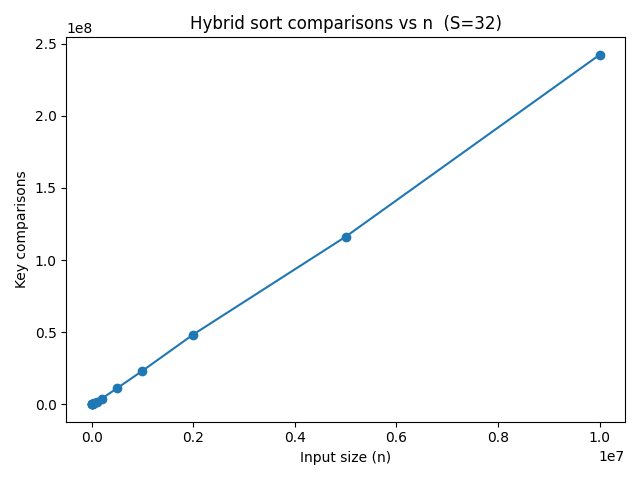
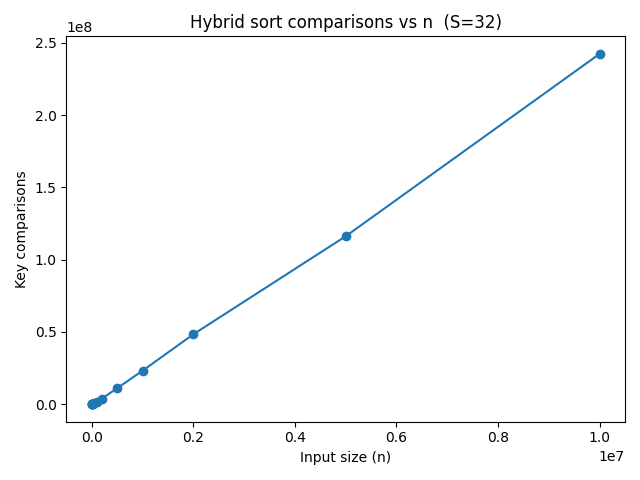
added plot and cpp version

diff --git a/project1/cpp/main.cpp b/project1/cpp/main.cpp
@@ -1,0 +1,116 @@
+#include <iostream>
+#include <fstream>
+#include <vector>
+#include <random>
+#include <chrono>
+#include "algorithms.h"
+
+// ── Data generation ───────────────────────────────────────────────────────────
+
+std::vector<int> generate_array(int n, int x = 10'000'000) {
+    std::mt19937 rng(std::random_device{}());
+    std::uniform_int_distribution<int> dist(1, x);
+    std::vector<int> arr(n);
+    for (auto& v : arr) v = dist(rng);
+    return arr;
+}
+
+// ── Experiment (c-i): fixed S, vary n ────────────────────────────────────────
+
+void experiment_vary_n(int S) {
+    std::vector<int> sizes = {1'000, 2'000, 5'000, 10'000, 20'000, 50'000,
+                               100'000, 200'000, 500'000, 1'000'000,
+                               2'000'000, 5'000'000, 10'000'000};
+
+    std::ofstream csv("results_vary_n.csv");
+    csv << "n,comparisons\n";
+
+    std::cout << "\n=== (c-i) Fixed S=" << S << ", vary n ===\n";
+    for (int n : sizes) {
+        auto arr = generate_array(n);
+        long long comps = hybrid_sort(arr, 0, n - 1, S);
+        std::cout << "  n=" << n << "  comparisons=" << comps << "\n";
+        csv << n << "," << comps << "\n";
+    }
+}
+
+// ── Experiment (c-ii): fixed n, vary S ───────────────────────────────────────
+
+void experiment_vary_S(int n) {
+    auto arr_original = generate_array(n);
+
+    std::ofstream csv("results_vary_S.csv");
+    csv << "S,comparisons\n";
+
+    std::cout << "\n=== (c-ii) Fixed n=" << n << ", vary S ===\n";
+    for (int S = 1; S <= 100; S++) {
+        auto arr = arr_original;
+        long long comps = hybrid_sort(arr, 0, n - 1, S);
+        std::cout << "  S=" << S << "  comparisons=" << comps << "\n";
+        csv << S << "," << comps << "\n";
+    }
+}
+
+// ── Experiment (c-iii): find optimal S ───────────────────────────────────────
+
+void experiment_optimal_S() {
+    std::vector<int> sizes = {1'000, 5'000, 10'000, 50'000, 100'000};
+
+    std::ofstream csv("results_optimal_S.csv");
+    csv << "n,optimal_S,comparisons\n";
+
+    std::cout << "\n=== (c-iii) Optimal S per size ===\n";
+    for (int n : sizes) {
+        auto arr_original = generate_array(n);
+        int best_S = 1;
+        long long best_comps = LLONG_MAX;
+        for (int S = 1; S <= 100; S++) {
+            auto arr = arr_original;
+            long long comps = hybrid_sort(arr, 0, n - 1, S);
+            if (comps < best_comps) {
+                best_comps = comps;
+                best_S = S;
+            }
+        }
+        std::cout << "  n=" << n << "  optimal S=" << best_S
+                  << "  comparisons=" << best_comps << "\n";
+        csv << n << "," << best_S << "," << best_comps << "\n";
+    }
+}
+
+// ── Experiment (d): hybrid vs merge_sort on 10M ──────────────────────────────
+
+void experiment_compare(int S, int n = 10'000'000) {
+    auto arr = generate_array(n);
+
+    auto arr1 = arr;
+    auto t0 = std::chrono::high_resolution_clock::now();
+    long long comps_hybrid = hybrid_sort(arr1, 0, n - 1, S);
+    auto t1 = std::chrono::high_resolution_clock::now();
+
+    auto arr2 = arr;
+    auto t2 = std::chrono::high_resolution_clock::now();
+    long long comps_merge = merge_sort(arr2, 0, n - 1);
+    auto t3 = std::chrono::high_resolution_clock::now();
+
+    double time_hybrid = std::chrono::duration<double>(t1 - t0).count();
+    double time_merge  = std::chrono::duration<double>(t3 - t2).count();
+
+    std::cout << "\n=== (d) Hybrid vs Mergesort on n=" << n << ", S=" << S << " ===\n";
+    std::cout << "  hybrid_sort : " << comps_hybrid << " comparisons | " << time_hybrid << "s\n";
+    std::cout << "  merge_sort  : " << comps_merge  << " comparisons | " << time_merge  << "s\n";
+}
+
+// ── Main ──────────────────────────────────────────────────────────────────────
+
+int main() {
+    const int S_FIXED = 32;
+    const int N_FIXED = 100'000;
+
+    experiment_vary_n(S_FIXED);
+    experiment_vary_S(N_FIXED);
+    experiment_optimal_S();
+    experiment_compare(S_FIXED);
+
+    return 0;
+}

diff --git a/project1/cpp/algorithms.cpp b/project1/cpp/algorithms.cpp
@@ -1,0 +1,66 @@
+#include "algorithms.h"
+#include <vector>
+
+long long insertion_sort(std::vector<int>& arr, int left, int right) {
+    long long comparisons = 0;
+    for (int i = left + 1; i <= right; i++) {
+        int key = arr[i];
+        int j = i - 1;
+        while (j >= left && arr[j] > key) {
+            arr[j + 1] = arr[j];
+            j--;
+            comparisons++;
+        }
+        if (j >= left)
+            comparisons++;
+        arr[j + 1] = key;
+    }
+    return comparisons;
+}
+
+long long merge(std::vector<int>& arr, int left, int mid, int right) {
+    long long comparisons = 0;
+    int n1 = mid - left + 1;
+    int n2 = right - mid;
+
+    std::vector<int> L(arr.begin() + left, arr.begin() + mid + 1);
+    std::vector<int> R(arr.begin() + mid + 1, arr.begin() + right + 1);
+
+    int i = 0, j = 0, k = left;
+    while (i < n1 && j < n2) {
+        if (L[i] <= R[j]) {
+            arr[k] = L[i];
+            i++;
+        } else {
+            arr[k] = R[j];
+            j++;
+        }
+        comparisons++;
+        k++;
+    }
+    while (i < n1) arr[k++] = L[i++];
+    while (j < n2) arr[k++] = R[j++];
+
+    return comparisons;
+}
+
+long long hybrid_sort(std::vector<int>& arr, int left, int right, int S) {
+    if (right - left + 1 <= S)
+        return insertion_sort(arr, left, right);
+    int mid = (left + right) / 2;
+    long long comparisons = 0;
+    comparisons += hybrid_sort(arr, left, mid, S);
+    comparisons += hybrid_sort(arr, mid + 1, right, S);
+    comparisons += merge(arr, left, mid, right);
+    return comparisons;
+}
+
+long long merge_sort(std::vector<int>& arr, int left, int right) {
+    if (left >= right) return 0;
+    int mid = (left + right) / 2;
+    long long comparisons = 0;
+    comparisons += merge_sort(arr, left, mid);
+    comparisons += merge_sort(arr, mid + 1, right);
+    comparisons += merge(arr, left, mid, right);
+    return comparisons;
+}

diff --git a/project1/cpp/algorithms.h b/project1/cpp/algorithms.h
@@ -1,0 +1,7 @@
+#pragma once
+#include <vector>
+
+long long insertion_sort(std::vector<int>& arr, int left, int right);
+long long merge(std::vector<int>& arr, int left, int mid, int right);
+long long hybrid_sort(std::vector<int>& arr, int left, int right, int S);
+long long merge_sort(std::vector<int>& arr, int left, int right);

diff --git a/project1/output.md b/project1/output.md
@@ -1,0 +1,134 @@
+aloy@Aloysiuss-MBP ~/p/SC2001-projects (main) [SIGTERM]> uv run python project1/experiment.py
+=== (c-i) Fixed S, vary n ===
+  n=     1,000  comparisons=13,443
+  n=     2,000  comparisons=28,641
+  n=     5,000  comparisons=66,639
+  n=    10,000  comparisons=143,251
+  n=    20,000  comparisons=307,487
+  n=    50,000  comparisons=879,469
+  n=   100,000  comparisons=1,861,055
+  n=   200,000  comparisons=3,925,456
+  n=   500,000  comparisons=11,100,774
+  n= 1,000,000  comparisons=23,186,830
+  n= 2,000,000  comparisons=48,377,083
+  n= 5,000,000  comparisons=116,159,682
+  n=10,000,000  comparisons=242,316,893
+
+=== (c-ii) Fixed n, vary S ===
+  S=     1  comparisons=1,536,452
+  S=     2  comparisons=1,536,452
+  S=     3  comparisons=1,536,327
+  S=     4  comparisons=1,536,715
+  S=     5  comparisons=1,536,715
+  S=     6  comparisons=1,554,603
+  S=     7  comparisons=1,557,771
+  S=     8  comparisons=1,557,771
+  S=     9  comparisons=1,557,771
+  S=    10  comparisons=1,557,771
+  S=    11  comparisons=1,557,771
+  S=    12  comparisons=1,619,210
+  S=    13  comparisons=1,638,658
+  S=    14  comparisons=1,638,658
+  S=    15  comparisons=1,638,658
+  S=    16  comparisons=1,638,658
+  S=    17  comparisons=1,638,658
+  S=    18  comparisons=1,638,658
+  S=    19  comparisons=1,638,658
+  S=    20  comparisons=1,638,658
+  S=    21  comparisons=1,638,658
+  S=    22  comparisons=1,638,658
+  S=    23  comparisons=1,638,658
+  S=    24  comparisons=1,763,202
+  S=    25  comparisons=1,860,433
+  S=    26  comparisons=1,860,433
+  S=    27  comparisons=1,860,433
+  S=    28  comparisons=1,860,433
+  S=    29  comparisons=1,860,433
+  S=    30  comparisons=1,860,433
+  S=    31  comparisons=1,860,433
+  S=    32  comparisons=1,860,433
+  S=    33  comparisons=1,860,433
+  S=    34  comparisons=1,860,433
+  S=    35  comparisons=1,860,433
+  S=    36  comparisons=1,860,433
+  S=    37  comparisons=1,860,433
+  S=    38  comparisons=1,860,433
+  S=    39  comparisons=1,860,433
+  S=    40  comparisons=1,860,433
+  S=    41  comparisons=1,860,433
+  S=    42  comparisons=1,860,433
+  S=    43  comparisons=1,860,433
+  S=    44  comparisons=1,860,433
+  S=    45  comparisons=1,860,433
+  S=    46  comparisons=1,860,433
+  S=    47  comparisons=1,860,433
+  S=    48  comparisons=1,946,232
+  S=    49  comparisons=2,381,785
+  S=    50  comparisons=2,381,785
+  S=    51  comparisons=2,381,785
+  S=    52  comparisons=2,381,785
+  S=    53  comparisons=2,381,785
+  S=    54  comparisons=2,381,785
+  S=    55  comparisons=2,381,785
+  S=    56  comparisons=2,381,785
+  S=    57  comparisons=2,381,785
+  S=    58  comparisons=2,381,785
+  S=    59  comparisons=2,381,785
+  S=    60  comparisons=2,381,785
+  S=    61  comparisons=2,381,785
+  S=    62  comparisons=2,381,785
+  S=    63  comparisons=2,381,785
+  S=    64  comparisons=2,381,785
+  S=    65  comparisons=2,381,785
+  S=    66  comparisons=2,381,785
+  S=    67  comparisons=2,381,785
+  S=    68  comparisons=2,381,785
+  S=    69  comparisons=2,381,785
+  S=    70  comparisons=2,381,785
+  S=    71  comparisons=2,381,785
+  S=    72  comparisons=2,381,785
+  S=    73  comparisons=2,381,785
+  S=    74  comparisons=2,381,785
+  S=    75  comparisons=2,381,785
+  S=    76  comparisons=2,381,785
+  S=    77  comparisons=2,381,785
+  S=    78  comparisons=2,381,785
+  S=    79  comparisons=2,381,785
+  S=    80  comparisons=2,381,785
+  S=    81  comparisons=2,381,785
+  S=    82  comparisons=2,381,785
+  S=    83  comparisons=2,381,785
+  S=    84  comparisons=2,381,785
+  S=    85  comparisons=2,381,785
+  S=    86  comparisons=2,381,785
+  S=    87  comparisons=2,381,785
+  S=    88  comparisons=2,381,785
+  S=    89  comparisons=2,381,785
+  S=    90  comparisons=2,381,785
+  S=    91  comparisons=2,381,785
+  S=    92  comparisons=2,381,785
+  S=    93  comparisons=2,381,785
+  S=    94  comparisons=2,381,785
+  S=    95  comparisons=2,381,785
+  S=    96  comparisons=2,381,785
+  S=    97  comparisons=2,765,465
+  S=    98  comparisons=3,506,203
+  S=    99  comparisons=3,506,203
+  S=   100  comparisons=3,506,203
+
+=== (c-iii) Optimal S per size ===
+  n=     1,000  optimal S=1  comparisons=8,687
+  n=     5,000  optimal S=1  comparisons=55,247
+  n=    10,000  optimal S=1  comparisons=120,456
+  n=    50,000  optimal S=1  comparisons=718,230
+  n=   100,000  optimal S=1  comparisons=1,536,276
+
+=== (d) Hybrid vs Mergesort on 10M ===
+
+
+==================================================
+  n = 10,000,000,  S = 32
+  hybrid_sort : 242,315,882 comparisons  |  40.442s
+  merge_sort  : 220,098,758 comparisons  |  41.675s
+==================================================
+
